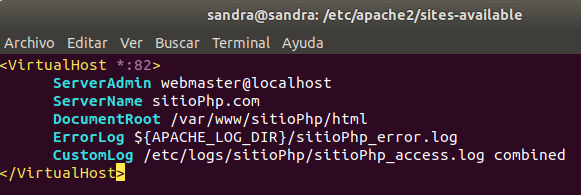
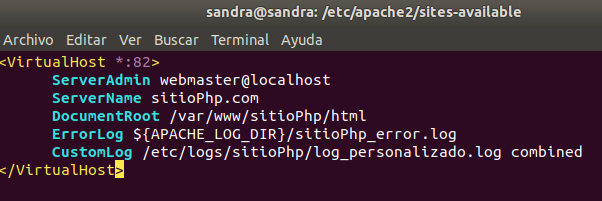
Finalizado: Punto 1

Changed region(s): [[0.0, 0.1538, 1.0, 0.9231], [0.3408, 0.0308, 0.8985, 0.1231]]

diff --git a/README.md b/README.md
@@ -1,5 +1,6 @@
 <h1 style="text-align:center"> Práctica Apache</h1>
 
+
 ![logo](img/logo.png)
 
 **Apache** es un servidor web de código abierto desarrollado por Apache Software Foundation. Se trata de un servidor de grado comercial robusto y seguro que se adhiere a todos los estándares HTTP. Ha sido el líder del mercado desde que apareció en 1995 y sigue siéndolo actualmente. Una de sus características principales es que tiene la capacidad de funcionar en múltiples plataformas.
@@ -19,6 +20,8 @@
 - Bajo rendimiento si recibe miles de requests simultáneos.
 
 
+***
+
 **Instalación de Apache**
 
 ```
@@ -31,9 +34,23 @@ sudo apt-get install apache2
 sudo service apache2 start/stop/status/restart(reincia)/reload (recarga la configuración)
 ```
 
-## **1. SITIO 1**
+***
+
+# **SITIO 1**
 
 Este primer sitio permitirá visualizar una página php.
+
+## REQUISITOS
+
+1. ### [Estar publicada en el puerto 82](#punto1)
+2. ### [El directorio donde se encuentra el contenido será _/var/wwww/sitioPhp_](#punto2)
+3. ### [Los logs se sitúan en el directorio _/etc/logs/sitioPhp_](#punto3)
+4. ### [Debe disponer de un fichero de log (_log_personalizado.log_) que mostrará la traza generada por un _CustomLog_ cuyo formato será _"%t%h%m%>s"_, al cual se le asociará el nombre _PhpLogFormat_](#punto4)
+5. ### [ Dispone de una página que se mostrará al acceder a una ruta que no exista, mostrando el mensaje _"Página no encontrada"_.](#punto5)
+
+***
+
+## PASOS A SEGUIR
 
 - Iniciamos el servidor Apache
 
@@ -77,10 +94,11 @@ Este primer sitio permitirá visualizar una página php.
 
   ![img](img/captura4.png)
 
-- Creamos un archivo de configuración para el virtual host (indicará como el servidor Apache va a responder a las solicitudes del dominio).
+- Creamos un archivo de configuración para el virtual host (indicará como el servidor Apache va a responder a las solicitudes del dominio). Para ello, utilizaremos como plantilla el fichero de configuración del virtual host por defecto de apache _000-default.conf_ situado en la misma ruta donde vamos a crear el nuestro.
 
    - Nos situamos en la ruta: _/etc/apache2/sites-available_
 
+   <a href="#punto1"></a> 
    - Creamos el archivo: _sitioPhp.conf_ con el siguiente contenido por defecto y especificando el puerto que queramos, en nuestro caso el 82:
 
       ![img](img/captura5.png)
@@ -93,6 +111,10 @@ Este primer sitio permitirá visualizar una página php.
 
    ![img](img/captura7.png)
 
+- Añadimos al archivo _etc/apache2/ports.conf_ el puerto 82 mediante la directiva listen
+
+  ![img](img/captura8.png)
+
 - Habilitamos el virtual host con la herramienta a2ensite para que esté disponible:
 
   ![img](img/captura6.png)
@@ -103,15 +125,112 @@ Este primer sitio permitirá visualizar una página php.
    systemctl reload apache2
    ```
 
-- Abrimos la página en el navegador:
+- Como la página que queremos mostrar en el navegador es de php, instalamos el paquete de php para apache:
+
+   ```
+   sudo apt-get install apache2 php libapache2-mod-php
+   ```
+
+- Abrimos la página en el navegador, indicando el puerto especificado: _localhost:82_
+
+  ![img](img/captura9.png)
 
 
+## PERSONALIZAR LOGS
 
+- Cambiamos el directorio donde queremos que se guarden los logs y el nombre del archivo. En nuestro caso se guardarán en _/etc/logs/sitioPhp. Por defecto apache los guarda dentro de la variable _${APACHE_LOG_DIR}_, como vemos en la imagen:
 
+  ![img](img/captura5.png)
 
-
-
+Esta variable se encuentra en el archivo de configuración de apache **envars**, en la ruta _/etc/apache2/ y nos guarda el archivo de logs _sitioPhp_access.log_, por defecto en _/var/log/apache2/
  
+  ![img](img/captura10.png)
+
+Nosotros vamos a cambiar esa variable, por la ruta donde queremos que se guarden, en este caso, en /etc/logs/sitioPhp.
+
+Primero, creamos la estructura de carpetas, ya que no existen.
+
+![img](img/captura11.png)
+
+Tras esto, vamos al archivo de configuración de nuestro sitio, situado en _/etc/apache2/sites-available y modificamos el archivo sitioPhp.conf, dejándolo como vemos en la imagen:
+
+Hemos cambiado la ruta y también el nombre del archivo de logs, de _sitioPhp_access.log_ a _log_personalizado.log_
+
+![img](img/captura12.png)
+
+Verificamos sintaxis
+  
+ ```
+ apache2ctl -t
+ ```
+
+Reiniciamos el servidor
+
+ ```
+ sudo systemctl reload apache2
+ ```
+
+ Y comprobamos que el archivo sitioPhp_access.log se ha guardado en la ruta correcta y contiene logs:
+
+![img](img/captura13.png)
+
+
+## CAMBIAR EL FORMATO DEL CUSTOM LOG
+
+En el fichero de configuración de nuestro host virtual (_/etc/apache2/sites-enabled/sitioPhp.conf_) podemos ver como por defecto hemos asignado un _CustomLog_ llamado _**combined**_ para especificar el formato en el que se almacenarán los logs.
+
+![img](img/captura17.png)
+
+Procedemos a modificarlo, para darle a los logs el formato que nosotros queremos; _"%t %h %m %>s"_. Para ello accedemos al fichero donde se especifica este formato, en _/etc/apache2/apache2.conf_ y añadimos nuestro formato a continuación de los anteriores dándole el nombre de PhpLogFormat.
+
+![img](img/captura16.png)
+
+Vamos al archivo de configuración de nuestro host virtual y cambiamos el nombre del _CustomLog_ (combined) por el que acabamos de crear (PhpLogFormat), quedando de la siguiente manera:
+
+![img](img/captura18.png)
+
+Verificamos sintaxis
+
+ ```
+ apache2ctl -t
+ ```
+
+Reiniciamos servidor:
+
+ ```
+ sudo systemctl reload apache2
+ ```
+
+ Comparamos el formato anterior:
+
+ ![img](img/captura15.png)
+
+ Con el actual, que nos muestra, la fecha y hora de la petición, el nombre del servidor remoto, el método utilizado para la petición y el código del estatus de la petición.
+
+ ![img](img/captura19.png)
+
+
+ ## CAMBIAR EL FORMATO DE LOS ERRORES
+
+Vamos a modificar el mensaje de error cuando obtengamos un estatus 404 (página no encontrada). Para ello, añadimos a nuestro archivo de configuración: _/etc/apache2/sites-enabled/sitioPhp.conf_, la siguiente directiva:
+
+![img](img/captura20.png)
+
+Verificamos sintaxis
+
+ ```
+ apache2ctl -t
+ ```
+
+Reiniciamos servidor:
+
+ ```
+ sudo systemctl reload apache2
+ ```
+
+- Accedemos a una ruta que no existe y verificamos que nos muestre el mensaje introducido:
+
+![img](img/captura21.png)
 
 
 
@@ -119,15 +238,10 @@ Este primer sitio permitirá visualizar una página php.
 
 
 
-Características:
-
-- Estar publicada en el puerto 82.
-- El directorio donde se encuentra el contenido será /var/wwww/sitioPhp.
 
 
-- Los logs se sitúan en el directorio /etc/logs/sitioPhp.
-- Debe disponer de un fichero de log (log_personalizado.log) que mostrará la traza generada por un CustomLog cuyo formato será _"%t%h%m%>s"_, al cual se le asociará el nombre PhpLogFormat.
-- Dispone de una página que se mostrará al acceder a una ruta que no exista, mostrando el mensaje _"Página no encontrada"_.
+
+
 
 
 
